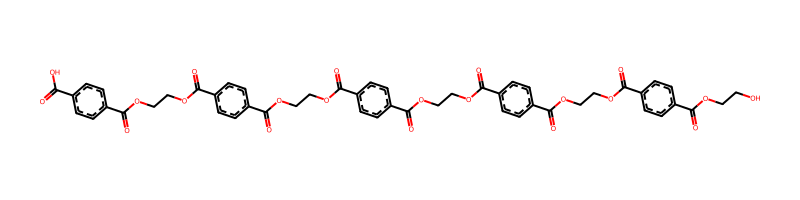
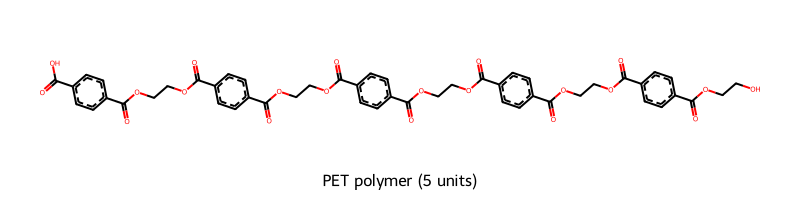
show title on PET

Changed region(s): [[0.0312, 0.3, 0.9688, 0.66], [0.4062, 0.87, 0.5938, 0.93]]

diff --git a/README.md b/README.md
@@ -284,12 +284,10 @@ polymer = Polymer(ETH_monomer)
 for i in range(monomer_number-1):
     polymer.extend(ETH_monomer, from_junction_name = "B", to_junction_name = "A")
 polymer.topology.title = f"PET polymer ({monomer_number} units)"
-Visualize.polymer(polymer, infer_bond_order=False).draw2D('tests/output/PET_polymer.png',(800,200), show_legend=False)
+Visualize.polymer(polymer, infer_bond_order=False).draw2D('tests/output/PET_polymer.png',(800,200), show_legend=True)
 Image(filename='tests/output/PET_polymer.png')
 ```
 
-    Ignoring rdKit error for bond:    67    64     2     0.1201 8.1800e+06
-    Ignoring rdKit error for bond:    91    88     2     0.1201 8.1800e+06
     Ignoring rdKit error for bond:    69   112     2     0.1201 1.9581e+07
     
 
